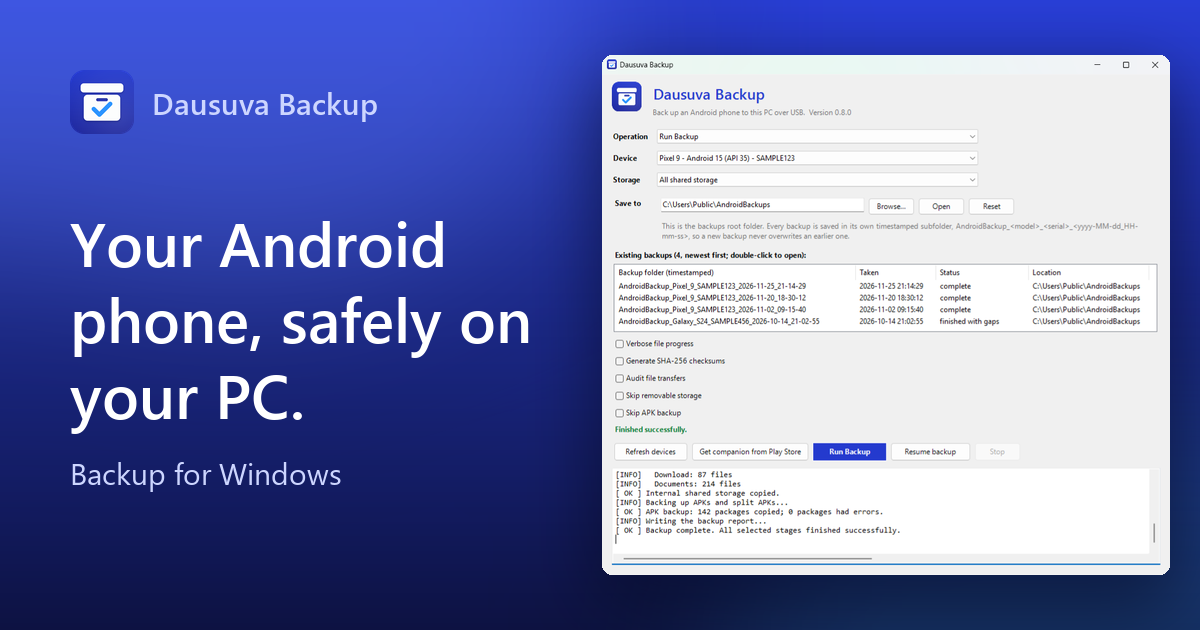
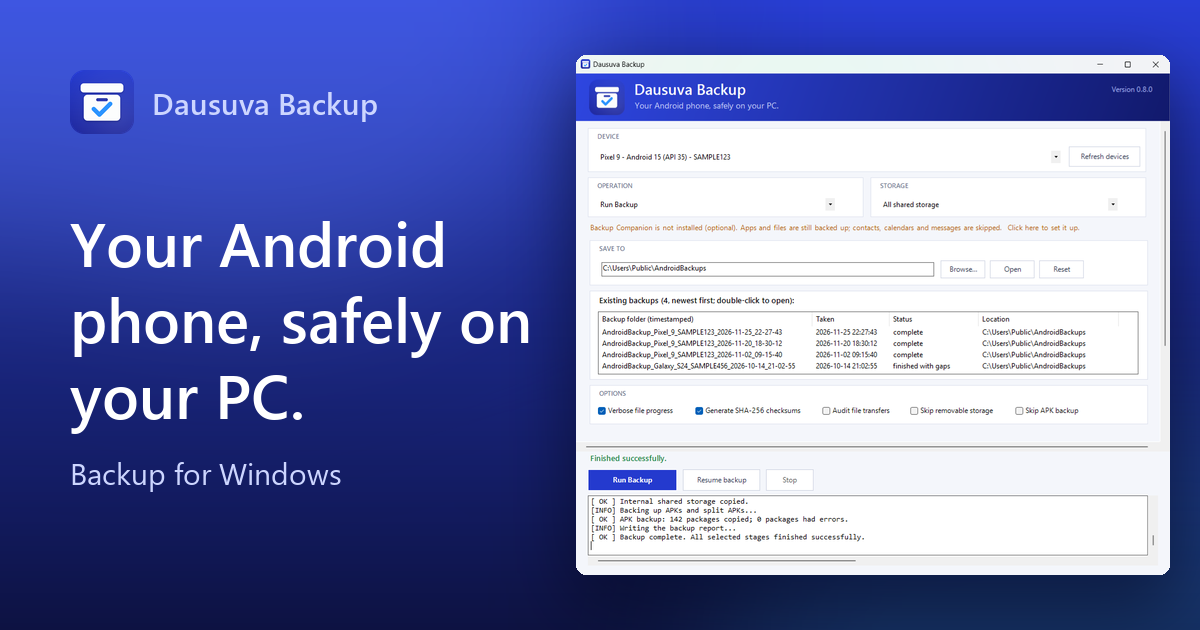
Backup page: updated app screenshots and first-step copy for the redesigned window

Changed region(s): [[0.4625, 0.0905, 0.9867, 0.9349], [0.7708, 0.6333, 0.8942, 0.6635], [0.8942, 0.2413, 0.925, 0.2714]]

diff --git a/content/en/backup.md b/content/en/backup.md
@@ -15,7 +15,7 @@ facts: ["Windows 10 / 11", "USB cable, no cloud", "No account needed"]
 priceFact: "one-time"
 stepsLabel: "How it works"
 stepsHeading: "Three steps. About as hard as copying a folder."
-steps: [{"title": "Connect", "text": "Plug the phone in, switch on USB debugging, and approve your PC on the phone. The window tells you in plain words what it is waiting for.", "items": ["One phone, or pick from several", "Clear status: ready, waiting for approval, offline", "adb is included: nothing else to install"]}, {"title": "Choose", "text": "Decide what to include and where it goes. The defaults are sensible; every option is one tick away.", "items": ["All shared storage, only the camera folder, or only common media", "Optional SHA-256 checksums and a file audit", "Saved to AndroidBackups in your user folder, or any folder you pick"]}, {"title": "Back up", "text": "Press Run Backup and watch it work. A live log shows each step as it happens.", "items": ["Every backup in its own timestamped folder", "Stop whenever you like", "Interrupted? Resume continues where it stopped"]}]
+steps: [{"title": "Connect", "text": "Plug the phone in, switch on USB debugging, and approve your PC on the phone. The window tells you in plain words what it is waiting for.", "items": ["One phone, or pick from several", "Clear status: ready, waiting for approval, offline", "adb is included: nothing else to install", "Optional: set up Backup Companion first, or skip it and back up apps and files"]}, {"title": "Choose", "text": "Decide what to include and where it goes. The defaults are sensible; every option is one tick away.", "items": ["All shared storage, only the camera folder, or only common media", "Optional SHA-256 checksums and a file audit", "Saved to AndroidBackups in your user folder, or any folder you pick"]}, {"title": "Back up", "text": "Press Run Backup and watch it work. A live log shows each step as it happens.", "items": ["Every backup in its own timestamped folder", "Stop whenever you like", "Interrupted? Resume continues where it stopped"]}]
 featuresLabel: "What you get"
 featuresHeading: "Everything a phone backup should do, and nothing that needs an account."
 features: [{"title": "Apps, photos, videos and files", "text": "Copies your installed apps' packages and the files in shared storage: camera pictures and videos, downloads, documents and more. Removable storage too, when you want it."}, {"title": "Every backup kept", "text": "A new backup never overwrites an old one. The window lists every backup in your folder and tells you whether each one is complete, interrupted or finished with gaps."}, {"title": "Resume, don't restart", "text": "Cable pulled out, laptop closed, phone locked? Resume backup carries on in the same folder, so a big photo library is never copied twice."}, {"title": "Proof it copied", "text": "Optional SHA-256 checksums, a file audit, and a report of what was saved and what Android would not hand over, so you do not have to hope."}, {"title": "Backup Companion, optional", "text": "A small app from Google Play that exports what a USB cable alone cannot read: contacts, calendars, messages, call records and more, only when you allow each one on the phone."}, {"title": "Quietly private", "text": "No account, no cloud, no telemetry. Dausuva Backup makes no network connection of its own, and your backups stay on your PC."}]
